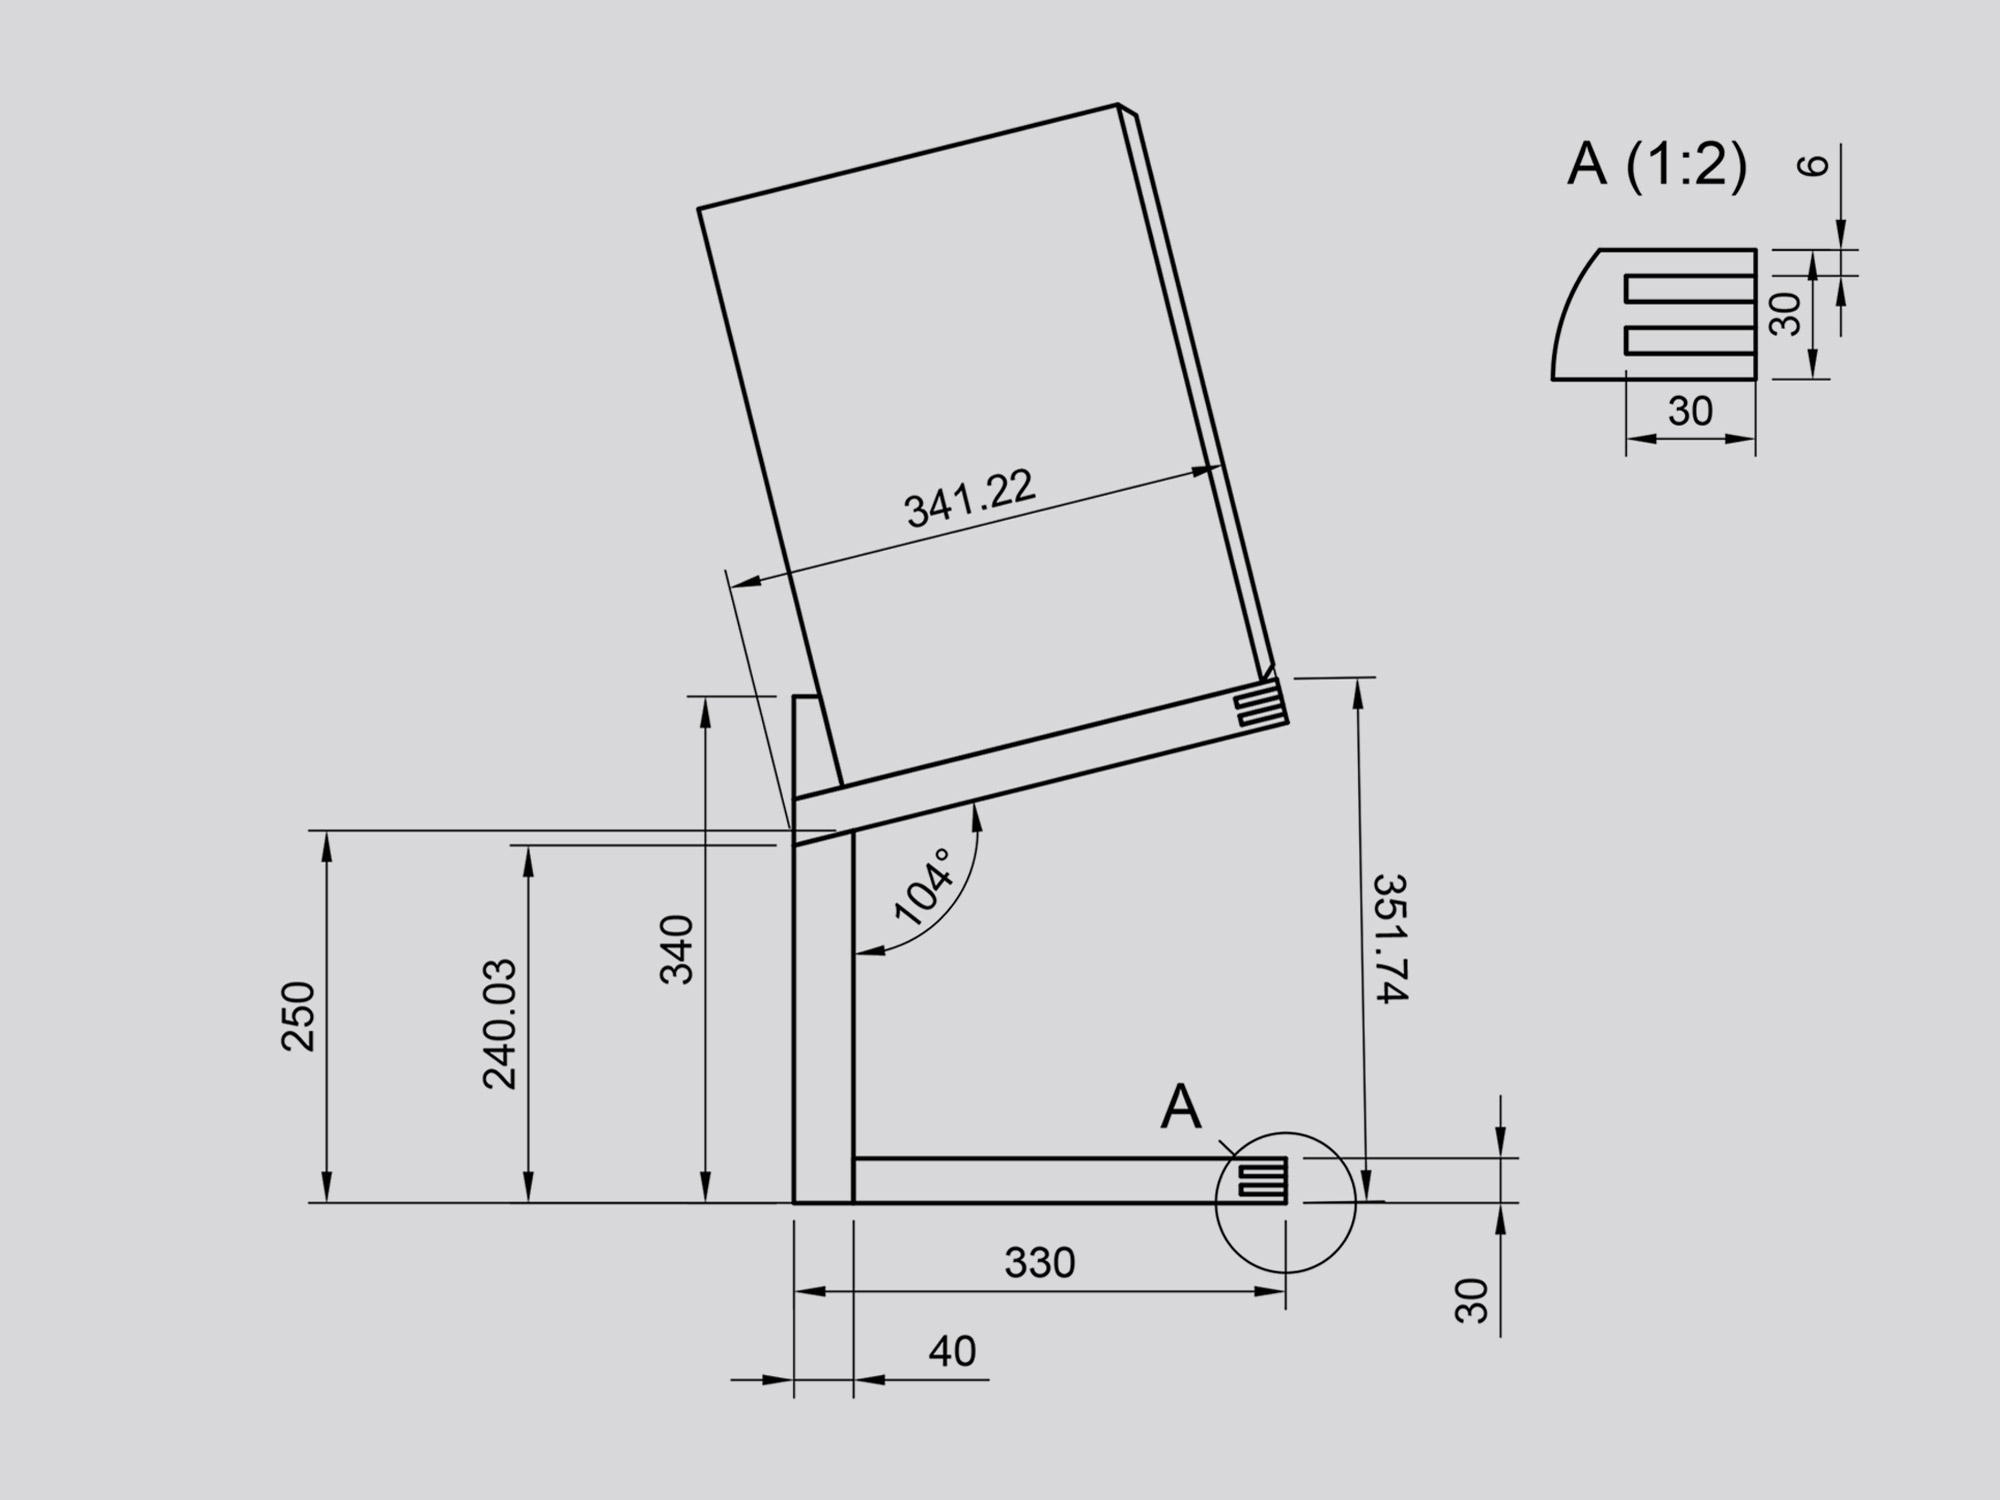
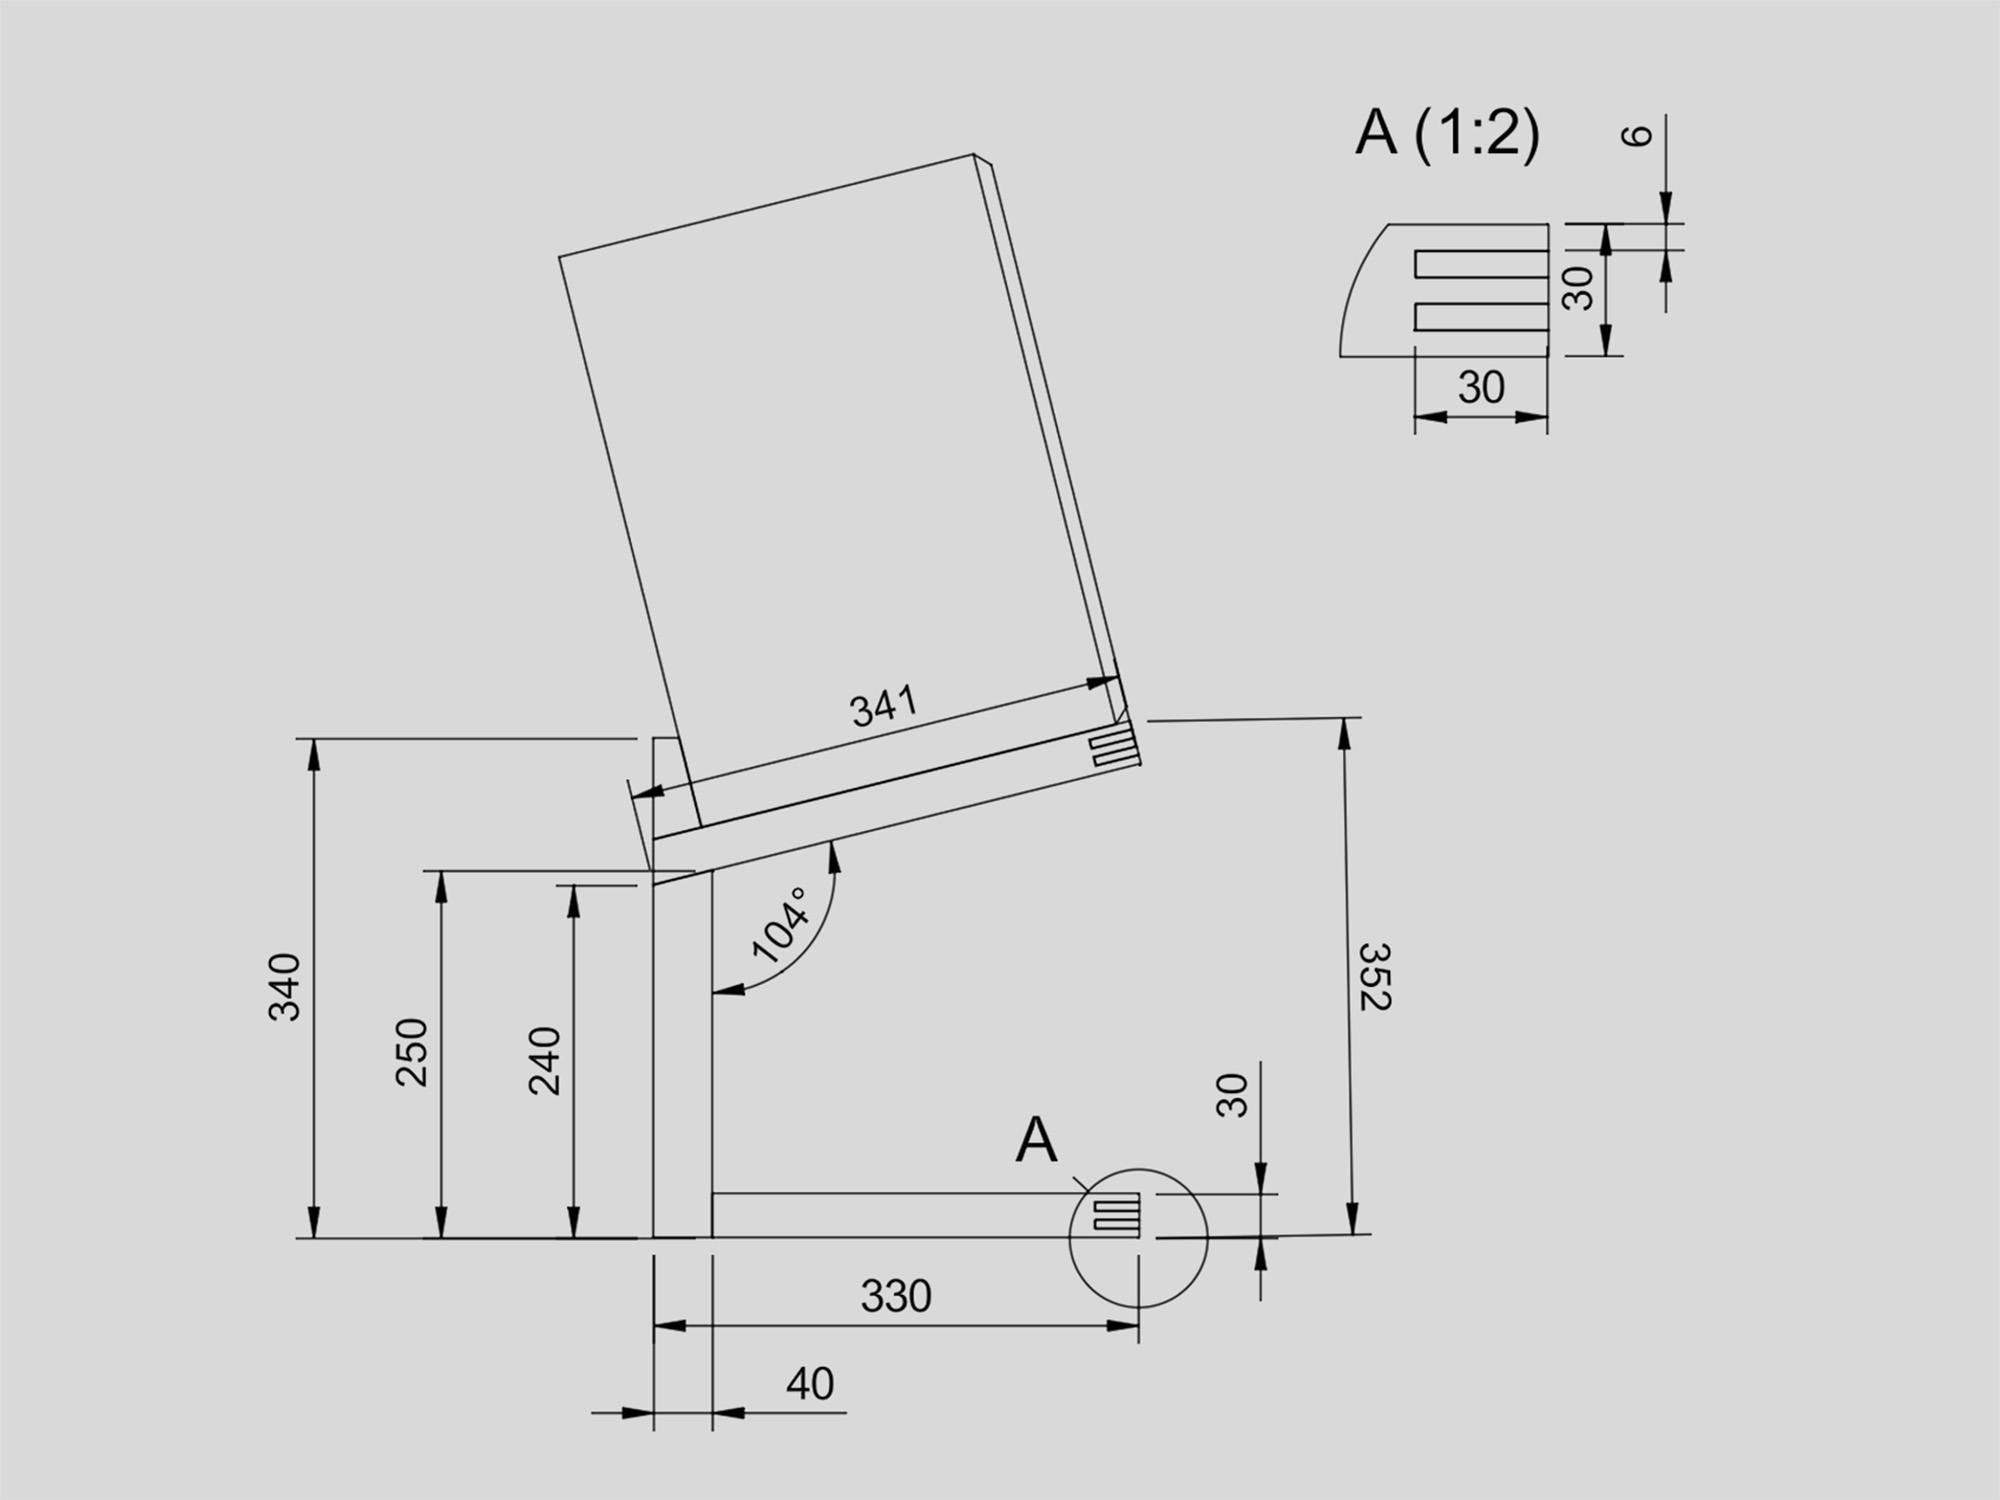
Fail

diff --git a/src/views/TofuRond.vue b/src/views/TofuRond.vue
@@ -1,0 +1,144 @@
+<template>
+  <div id="page" class="grain">
+    <div class="projectPageContainer">
+      <projectTop
+        v-bind:projectdata="projectdata"
+        :start-animation="pageLoaded"
+      ></projectTop>
+      <div class="project">
+        <div class="full-size slidein">
+          <img
+            src="../assets/images/Roulesk/Roulesk_Full.jpg"
+            alt="DAC Raspberry Pi"
+          />
+        </div>
+        <div class="full-size slidein">
+          <img
+            src="../assets/images/DAC-1/DAC-1_Render_Green_Persp_2.jpg"
+            alt="DAC Raspberry Pi"
+          />
+        </div>
+        <div class="full-size slidein">
+          <img
+            src="../assets/images/DAC-1/DAC-1_Render_Green_Layout.jpg"
+            alt="DAC Raspberry Pi"
+          />
+        </div>
+        <div class="vimeo-container">
+          <iframe
+            :src="vim1"
+            frameborder="0"
+            allow="fullscreen"
+            allowfullscreen
+          ></iframe>
+        </div>
+        <div class="full-size slidein">
+          <img
+            src="../assets/images/DAC-1/DAC-1_Drawings.jpg"
+            alt="DAC Raspberry Pi"
+          />
+        </div>
+        <div class="half-half">
+          <div class="half">
+            <img
+              src="../assets/images/DAC-1/Dac-1_01.jpg"
+              alt="DAC Raspberry Pi"
+            />
+          </div>
+          <div class="half">
+            <img
+              src="../assets/images/DAC-1/Dac-1_04.jpg"
+              alt="DAC Raspberry Pi"
+            />
+          </div>
+        </div>
+        <div class="half-half">
+          <div class="half">
+            <img
+              src="../assets/images/DAC-1/Dac-1_02.jpg"
+              alt="DAC Raspberry Pi"
+            />
+          </div>
+          <div class="half">
+            <img
+              src="../assets/images/DAC-1/Dac-1_03.jpg"
+              alt="DAC Raspberry Pi"
+            />
+          </div>
+        </div>
+      </div>
+    </div>
+    <projectFooter v-if="pageLoaded" />
+  </div>
+</template>
+
+<script>
+import projectTop from "@/components/projectTop.vue";
+import projectFooter from "@/components/projectFooter.vue";
+import { gsap } from "gsap";
+
+export default {
+  components: {
+    projectTop,
+    projectFooter,
+  },
+  metaInfo() {
+    return {
+      title: "Tofo Rond| Florian Schmid",
+      meta: [
+        {
+          name: "description",
+          content: "Tofu glasware",
+        },
+      ],
+    };
+  },
+  data() {
+    return {
+      projectdata: {
+        name: "TofuRond",
+        date: "2025",
+        counter: "❺",
+        type: "Industrial Design",
+        desc: "TO DO",
+        client: "SCHOOLPROJECT",
+        credits: "-",
+        desc1:
+          "DESCRIPTION TO DO",
+        desc2: "",
+      },
+      pageLoaded: false,
+      vim1: "",
+    };
+  },
+  created() {
+    window.scroll(0, 0);
+  },
+  mounted() {
+    gsap.set(".slidein", {
+      opacity: 0,
+      y: 100,
+    });
+    this.pageLoaded = true;
+    this.gsapin();
+  },
+  methods: {
+    gsapin() {
+      var tl = gsap.timeline();
+      tl.to(".slidein", {
+        duration: 0.8,
+        y: 0,
+        opacity: 1,
+        delay: 1,
+        ease: "circ.out",
+        onComplete: this.srcloader(),
+      });
+    },
+    srcloader() {
+      setTimeout(() => {
+        this.vim1 = "https://player.vimeo.com/video/909690900";
+      }, 2000);
+    },
+  },
+};
+</script>

diff --git a/src/router/index.js b/src/router/index.js
@@ -77,6 +77,11 @@ const routes = [
     path: '/roulesk',
     name: 'roulesk',
     component: () => import(/*webpackChunkName: "mat-scanner" */ '../views/Roulesk.vue')
+  },
+  {
+    path: '/TofuRond',
+    name: 'TofuRond',
+    component: () => import(/*webpackChunkName: "TofuRond" */ '../views/TofuRond.vue')
   }
 ]
 
